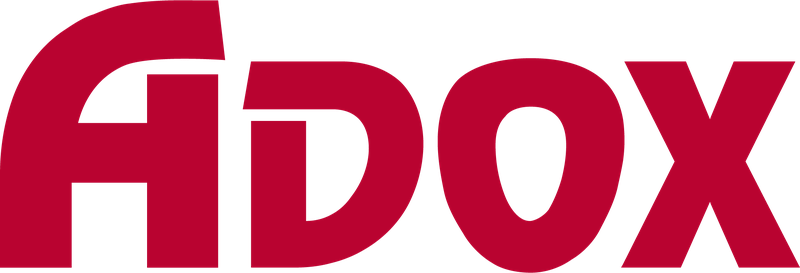
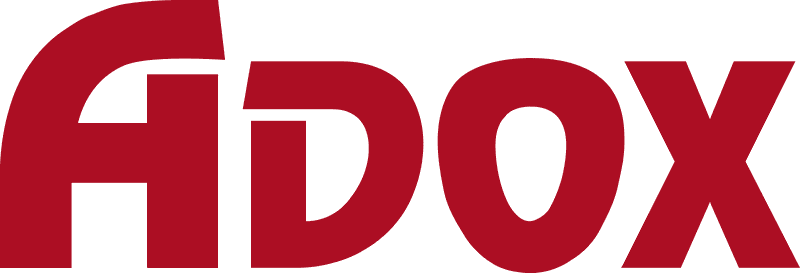
Add files via upload
Logo ADOX v.2 y ajustes de textos

diff --git a/public/js/app.js b/public/js/app.js
@@ -85,8 +85,8 @@ function nombresDe(s) {
 }
 
 // ───────────────────────── vistas ─────────────────────────
-function appbar(titulo, back = null, right = '') {
-  return `<div class="appbar">
+function appbar(titulo, back = null, right = '', cls = '') {
+  return `<div class="appbar${cls ? ' ' + cls : ''}">
     ${back ? `<button class="back" data-go="${back}" aria-label="Volver">‹</button>` : ''}
     <div class="word grow">${titulo}</div>
     <div class="right">${right}</div>
@@ -149,22 +149,21 @@ function vAhora() {
     ${avisos}
     ${live}
     ${prox}
+    <div class="card tap row mt" data-go="comite"><div class="grow"><div class="b">Autoridades</div><div class="muted">Comité Organizador y Científico</div></div><span style="color:var(--txt-3);font-size:20px">›</span></div>
     <div class="sec-t">Participá y ganá</div>
     <div class="card" style="border-left:3px solid var(--teal)">
       <div style="font-size:22px;font-weight:900;color:var(--navy);letter-spacing:-.5px;line-height:1.15">Recorré tus 5 momentos de ADECI 2026</div>
-      <div class="small mt-s" style="color:var(--txt-2);line-height:1.55">Te invitamos a un recorrido interactivo por el congreso.<br>Cuando cumplís cada uno de tus 5 momentos, sumás una gota.<br>Con tus 5 gotas, acercate al stand de ADOX.<br>Retirá tu regalo y registrate para el sorteo.</div>
+      <div class="small mt-s" style="color:var(--txt-2);line-height:1.55">Te invitamos a participar en un recorrido interactivo por el congreso.<br>Sumás una gota al cumplir cada momento.<br>Cuando tengas tus 5 gotas, acercate al stand de ADOX a retirar tu regalo y participar en el sorteo con sorpresas para el cierre del congreso.</div>
       <div class="row mt" style="gap:10px">
         <div style="display:flex;gap:5px">${[1,2,3,4,5].map(n => `<span style="font-size:18px;${n <= completos ? '' : 'opacity:.25;filter:grayscale(1)'}">💧</span>`).join('')}</div>
         <div class="muted grow">${completos} de 5 gotas</div>
       </div>
       <button class="btn btn-p full mt" data-go="juego">Conocé el juego</button>
     </div>
-    <div class="sec-t">Conocé el congreso</div>
-    <div class="card tap row" data-go="comite"><div class="grow"><div class="b">Comité organizador</div><div class="muted">Autoridades y Comité Científico</div></div><span style="color:var(--txt-3);font-size:20px">›</span></div>
     <div class="sec-t">Con el apoyo de</div>
     <div class="card tap center" data-go="adox" style="padding:22px 15px 18px">
-      <img src="/img/adox-logo.png" alt="ADOX · Gestionando innovación" style="width:82%;max-width:320px">
-      <div class="muted mt">${esc(S.config.standTexto || 'Stand de ADOX')} · Cómo participar del sorteo →</div>
+      <img src="/img/adox-wordmark.png" alt="ADOX" style="width:46%;max-width:180px">
+      <div class="muted mt">Visitanos en el stand y conocé cómo participar en el sorteo →</div>
     </div>
   </div>`;
 }
@@ -185,9 +184,11 @@ function vPrograma() {
       ${nombres ? `<div class="sp">${esc(nombres)}</div>` : ''}
     </div>`;
   }).join('');
-  return appbar('Programa') + `<div class="days">${DIAS.map(d => `<button class="${d.n === n ? 'on' : ''}" data-dia="${d.n}">${d.label} · Día ${d.n}</button>`).join('')}</div>
+  return appbar('Programa', null, '', 'center') +
+    `<div class="prog-hint">Hacé click sobre cada sesión para los contenidos y disertantes</div>
+    <div class="days">${DIAS.map(d => `<button class="${d.n === n ? 'on' : ''}" data-dia="${d.n}">${d.label} · Día ${d.n}</button>`).join('')}</div>
     <div class="body"><div class="tl">${lista}</div>
-    <div class="muted center mt">Tocá una sesión para ver quién participa y dejar tu comentario.<br>Sala plenaria única · Hotel Quórum, Córdoba.</div></div>`;
+    <div class="muted center mt">Sala plenaria única · Hotel Quórum, Córdoba.</div></div>`;
 }
 
 function personHTML(id, tema) {
@@ -249,7 +250,7 @@ function vJuego() {
   const final = p.completos === 5 ? `<div class="card" style="background:var(--grad);color:#fff;border:0;margin-bottom:16px">
       <div style="font-size:11px;font-weight:800;letter-spacing:2px;text-transform:uppercase;color:var(--celeste)">${p.inscripto ? 'Inscripción confirmada' : '¡Completaste los 5 momentos!'}</div>
       <div style="font-size:19px;font-weight:900;margin-top:4px;line-height:1.2">${p.inscripto ? 'Ya estás en el sorteo. ¡Suerte!' : 'Pasá por el stand de ADOX a retirar tu regalo y registrarte para el sorteo'}</div>
-      <div class="small mt-s" style="color:var(--celeste-pale)">${p.inscripto ? 'Tu regalo ya fue entregado. Acercate al stand para el sorteo: para ganar, hay que estar presente.' : 'Abrí «Yo» y mostrá tu QR: el staff de ADOX lo escanea con su celular y listo.'}</div>
+      <div class="small mt-s" style="color:var(--celeste-pale)">${p.inscripto ? 'Tu regalo ya fue entregado. Acercate al stand para el sorteo: para ganar, tenés que estar presente.' : 'Abrí «Yo» y mostrá tu QR: el staff de ADOX lo escanea con su celular y listo.'}</div>
       ${p.inscripto ? '' : `<button class="btn btn-w mt" data-go="yo">Mostrar mi QR</button>`}</div>` : '';
 
   // M2 · trivia
@@ -282,7 +283,7 @@ function vJuego() {
       <div class="muted" style="font-size:10.5px;font-weight:800;letter-spacing:2.2px;text-transform:uppercase;color:var(--teal)">Tus 5 momentos en ADECI 2026</div>
       <div style="font-size:24px;font-weight:900;color:var(--navy);letter-spacing:-.6px;line-height:1.1;margin-top:5px">Viví el congreso y ganá</div>
       <div class="small mt-s" style="color:var(--txt-2);line-height:1.5">Viví tus «cinco momentos» en ADECI 2026 y participá de un sorteo auspiciado por ADOX. Cada momento marca una instancia de tu participación activa en el congreso, y lo pensamos para ayudarte a aprovecharlo al máximo. Enterate cómo, ganando una gota en cada momento:</div>
-      <div class="callout mt"><div class="t">Con las 5 gotas, pasá por el stand de ADOX</div><div class="x">Retirás tu regalo y te registrás para el sorteo mostrando tu QR (pestaña «Yo»). Para ganar, hay que estar presente. ${esc(S.config.sorteoInfo || '')}</div></div>
+      <div class="callout mt"><div class="t">Con las 5 gotas, pasá por el stand de ADOX</div><div class="x">Retirás tu regalo y te registrás para el sorteo mostrando tu QR (pestaña «Yo»). Para ganar, tenés que estar presente. ¡No te lo pierdas!</div></div>
     </div>
 
     <div class="ruta">
@@ -341,17 +342,17 @@ function vTrivia(dia, data) {
 
 function vAdox() {
   return `<div class="adox-band"></div><div class="appbar" style="background:#fff;color:var(--navy)"><button class="back" data-go="ahora" style="background:var(--paper);color:var(--navy)">‹</button><div class="word grow">Sponsor</div></div>
-  <div class="adox-head"><img src="/img/adox-logo.png" alt="ADOX · Gestionando innovación"></div>
+  <div class="adox-head"><img src="/img/adox-wordmark.png" alt="ADOX"></div>
   <div class="body">
     <div class="card" style="border-left:3px solid var(--adox)">
-      <div class="b" style="font-size:15.5px">${esc(S.config.standTexto || 'Stand de ADOX · hall central')}</div>
+      <div class="b" style="font-size:15.5px">Participá en el juego de tus 5 momentos en ADECI 2026</div>
       <div class="small mt-s" style="color:var(--txt-2)">Acá retirás tu regalo y te registrás para el sorteo cuando tengas las cinco gotas.</div>
     </div>
     <div class="sec-t">Cómo participar</div>
     <div class="card">
       <div class="stepline"><span class="numb">1</span><div><b class="b">Juntá las cinco gotas</b> en la app: llegada, trivia, e-pósters, tres comentarios y «Conocé ADOX».</div></div>
       <div class="stepline"><span class="numb">2</span><div><b class="b">Vení al stand con la app abierta en «Yo».</b> Escaneamos tu QR, retirás tu regalo y quedás registrado para el sorteo.</div></div>
-      <div class="stepline" style="margin-bottom:0"><span class="numb t">3</span><div><b class="b">Acercate al stand para el sorteo.</b> Para ganar, hay que estar presente. ${esc(S.config.sorteoInfo || '')}</div></div>
+      <div class="stepline" style="margin-bottom:0"><span class="numb t">3</span><div><b class="b">Acercate al stand para el sorteo.</b> Para ganar, tenés que estar presente.<br>¡No te lo pierdas!</div></div>
       <button class="btn ${(S.progreso?.completos === 5) ? 'btn-adox' : 'btn-g'} full mt" data-go="${(S.progreso?.completos === 5) ? 'yo' : 'juego'}">${(S.progreso?.completos === 5) ? 'Mostrar mi QR' : 'Ver mis 5 momentos'}</button>
     </div>
     <div class="sec-t">Qué vas a encontrar</div>
@@ -362,14 +363,13 @@ function vAdox() {
       <div class="prod"><div class="ic">🌡</div><div><div class="nn">Mapeo térmico y monitoreo</div><div class="ds">Validación de ambientes y equipos</div></div></div>
     </div>
     <a class="btn btn-w full" href="https://adox.com.ar/" target="_blank" rel="noopener">Visitar adox.com.ar ↗</a>
-    <div class="muted center mt">ADOX · Gestionando innovación</div>
   </div>`;
 }
 
 function vYo() {
   const u = S.user, p = S.progreso;
   const hab = p?.habilitado;
-  return appbar('Mi QR') + `<div class="body">
+  return appbar('Mi QR', null, '', 'center') + `<div class="body">
     <div class="badge">
       <div class="nm">${esc(u.nombre)} ${esc(u.apellido)}</div>
       <div class="ro">Congreso ADECI 2026</div>
@@ -377,7 +377,7 @@ function vYo() {
       <div class="id">${esc(u.uid)}</div>
       <div class="hab ${hab ? 'on' : ''}">${p?.inscripto ? '✓ Inscripto en el sorteo' : hab ? '✓ 5 gotas · pasá por el stand ADOX' : `${p?.completos ?? 0} de 5 gotas`}</div>
     </div>
-    <div class="muted center small mb">${p?.inscripto ? 'Ya retiraste tu regalo y estás en el sorteo. Acercate al stand para el sorteo: para ganar, hay que estar presente.' : hab ? 'Mostrá este QR en el stand de ADOX: te lo escanean, retirás tu regalo y quedás en el sorteo.' : 'Cuando tengas las cinco gotas, mostrá este QR en el stand de ADOX.'}</div>
+    <div class="muted center small mb">${p?.inscripto ? 'Ya retiraste tu regalo y estás en el sorteo. Acercate al stand para el sorteo: para ganar, tenés que estar presente.' : hab ? 'Mostrá este QR en el stand de ADOX: te lo escanean, retirás tu regalo y quedás en el sorteo.' : 'Cuando tengas las cinco gotas, mostrá este QR en el stand de ADOX.'}</div>
     <div class="card">
       <div class="kv"><span class="k">Correo</span><span class="v">${esc(u.email)}</span></div>
       <div class="kv"><span class="k">Gotas</span><span class="v" style="color:var(--teal)">${p?.gotas ?? 0} de 5</span></div>
@@ -395,7 +395,7 @@ function vYo() {
 
 function vComite() {
   const item = (c, i, grupo) => `<button class="cm" data-comite="${grupo}:${i}"><img src="${c.foto}" alt="" loading="lazy"><div>${c.cargo ? `<div class="c">${esc(c.cargo)}</div>` : ''}<div class="n">${esc(c.nombre)}</div><div class="muted">Ver perfil ›</div></div></button>`;
-  return appbar('Comité organizador', 'yo') + `<div class="body">
+  return appbar('Comité Organizador y Científico', 'yo') + `<div class="body">
     <div class="sec-t">Autoridades</div><div class="card" style="padding-top:2px;padding-bottom:2px">${AUTORIDADES.map((c, i) => item(c, i, 'a')).join('')}</div>
     <div class="sec-t">Comité científico</div><div class="card" style="padding-top:2px;padding-bottom:2px">${COMITE_CIENTIFICO.map((c, i) => item(c, i, 'c')).join('')}</div>
   </div>`;

diff --git a/public/css/app.css b/public/css/app.css
@@ -8,7 +8,7 @@
   --celeste-mid:#6FB7C4; --azul-soft:#E8F3F8;
   --ok:var(--teal); --warn:var(--navy-deep);
   --grad:linear-gradient(150deg,#01203f 0%,#012951 28%,#0a4a72 60%,#0b6e80 86%,#0a7d84 100%);
-  --adox:#B90330;
+  --adox:#AC0D22;
   --nav-h:64px;
   --sat:env(safe-area-inset-top,0px); --sab:env(safe-area-inset-bottom,0px);
 }
@@ -37,6 +37,16 @@ img{max-width:100%}
 .appbar .word span{color:var(--celeste)}
 .appbar .back{background:rgba(255,255,255,.12);border:0;color:#fff;width:34px;height:34px;border-radius:10px;font-size:18px;display:grid;place-items:center}
 .appbar .right{display:flex;gap:8px;align-items:center}
+.appbar.center{justify-content:center;gap:0}
+.appbar.center .word{text-align:center}
+.appbar.center .right:empty{display:none}
+
+/* frase destacada bajo la banda de Programa */
+.prog-hint{
+  margin:14px 16px 0;background:var(--celeste-grey);color:var(--navy);
+  border-radius:11px;padding:10px 12px;text-align:center;
+  font-size:13px;font-weight:800;line-height:1.35;
+}
 
 .hero{background:var(--grad);color:#fff;padding:20px 20px 22px}
 .hero .kicker{font-size:10.5px;font-weight:800;letter-spacing:2.6px;text-transform:uppercase;color:var(--celeste);margin-bottom:6px}
@@ -70,7 +80,7 @@ img{max-width:100%}
 .btn-w{background:#fff;color:var(--navy);border:1px solid var(--line)}
 .btn-o{background:rgba(255,255,255,.14);color:#fff;box-shadow:inset 0 0 0 1px rgba(255,255,255,.3)}
 .btn-adox{background:var(--adox);color:#fff}
-.btn-adox:hover{background:#9c0228}
+.btn-adox:hover{background:#8e0a1b}
 .btn-teal{background:var(--teal);color:#fff}
 .btn.sm{padding:8px 12px;font-size:13px;border-radius:9px}
 .link{background:none;border:0;color:var(--azul);font-weight:800;padding:0;font-size:13.5px}
@@ -214,8 +224,8 @@ img{max-width:100%}
 
 /* ── adox ── */
 .adox-head{background:#fff;border-bottom:1px solid var(--line);padding:22px 18px 18px;text-align:center}
-.adox-head img{width:72%;max-width:320px}
-.adox-band{height:4px;background:linear-gradient(90deg,var(--adox),#ff6b3d)}
+.adox-head img{width:52%;max-width:210px}
+.adox-band{height:4px;background:linear-gradient(90deg,#8e0a1b,var(--adox),#d8213a)}
 .prod{display:flex;gap:12px;align-items:center;padding:12px 0;border-bottom:1px solid var(--line)}
 .prod:last-child{border:0}
 .prod .ic{width:42px;height:42px;border-radius:11px;background:var(--paper);display:grid;place-items:center;font-size:19px;flex:none}

diff --git a/public/staff.html b/public/staff.html
@@ -13,7 +13,7 @@
   body{background:#0b1524;color:#fff}
   #app{background:#0b1524;padding-bottom:24px}
   .head{padding:calc(16px + var(--sat)) 18px 12px;display:flex;align-items:center;gap:12px}
-  .head .r{font-size:10.5px;font-weight:800;letter-spacing:2.4px;text-transform:uppercase;color:#ff8a72}
+  .head .r{font-size:10.5px;font-weight:800;letter-spacing:2.4px;text-transform:uppercase;color:#ef8f9c}
   .head h3{font-size:19px;font-weight:900;margin-top:2px}
   .head img{height:26px;margin-left:auto}
   .viewport{margin:8px 18px 0;aspect-ratio:1;border-radius:18px;background:#16233a;position:relative;overflow:hidden}
@@ -55,7 +55,7 @@ function logout(){token='';me=null;localStorage.removeItem(LS+':token');localSto
 
 function render(){
   if(!token||!me){ $('#app').innerHTML=`<div class="login">
-    <div class="plate"><img src="/img/adox-logo.png" alt="ADOX" style="width:70%;display:block;margin:0 auto 16px">
+    <div class="plate"><img src="/img/adox-wordmark.png" alt="ADOX" style="width:42%;display:block;margin:0 auto 16px">
       <h2>Stand ADOX · Escáner</h2><p>Registra en el sorteo a quienes completaron los 5 momentos y entrega el regalo. Ingresá tu correo y el PIN.</p>
       <form id="f" class="mt">
         <div class="field"><label>Correo</label><input name="email" type="email" required autocomplete="email"></div>

diff --git a/public/sw.js b/public/sw.js
@@ -1,8 +1,8 @@
 // ADECI26 · service worker: deja la app usable sin señal (programa, speakers, estilos).
 // Las llamadas a /api/ nunca se cachean.
-const CACHE = 'adeci26-v1';
+const CACHE = 'adeci26-v2';
 const SHELL = ['/', '/index.html', '/css/app.css', '/js/app.js', '/data/programa.js', '/data/speakers.js', '/data/comite.js', '/js/firebase-config.js',
-  '/img/adeci-logo.jpg', '/img/adox-logo.png', '/img/adox-wordmark.png', '/img/adox-wordmark-white.png', '/img/icon-192.png', '/manifest.webmanifest'];
+  '/img/adeci-logo.jpg', '/img/adox-wordmark.png', '/img/adox-wordmark-white.png', '/img/icon-192.png', '/manifest.webmanifest'];
 
 self.addEventListener('install', e => { e.waitUntil(caches.open(CACHE).then(c => c.addAll(SHELL)).then(() => self.skipWaiting())); });
 self.addEventListener('activate', e => { e.waitUntil(caches.keys().then(ks => Promise.all(ks.filter(k => k !== CACHE).map(k => caches.delete(k)))).then(() => self.clients.claim())); });

diff --git a/public/index.html b/public/index.html
@@ -32,7 +32,7 @@
     <button data-r="juego"><svg viewBox="0 0 24 24"><path d="M12 3c3.5 4.2 5.5 7 5.5 9.8A5.5 5.5 0 0 1 12 18a5.5 5.5 0 0 1-5.5-5.2C6.5 10 8.5 7.2 12 3z"/></svg>Juego</button>
     <button data-r="adox"><svg viewBox="0 0 24 24"><path d="M4 7h16v13H4z"/><path d="M4 7l2-4h12l2 4M9 11h6"/></svg>ADOX</button>
     <button data-r="yo"><svg viewBox="0 0 24 24"><circle cx="12" cy="8.5" r="3.5"/><path d="M4.5 20a7.5 7.5 0 0 1 15 0"/></svg>Yo</button>
-    <button data-r="libro"><svg viewBox="0 0 24 24"><path d="M4 4.5A2.5 2.5 0 0 1 6.5 2H20v16H6.5A2.5 2.5 0 0 0 4 20.5z"/><path d="M4 20.5V4.5M8 6h8M8 9.5h6"/></svg>Libro</button>
+    <button data-r="libro"><svg viewBox="0 0 24 24"><path d="M4 4.5A2.5 2.5 0 0 1 6.5 2H20v16H6.5A2.5 2.5 0 0 0 4 20.5z"/><path d="M4 20.5V4.5M8 6h8M8 9.5h6"/></svg>Resúmenes</button>
   </div>
 </nav>
 <div class="toast" id="toast"></div>
